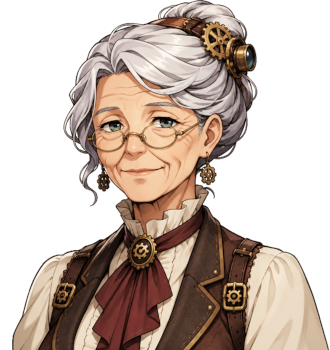
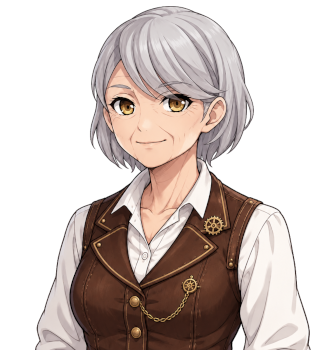
Thistle-pedia: Winnie's new face, Fellow Blunt's portrait, Will Thistle left open, Washer untied from the letters
Winnie's portrait is Mike's new picture, with alt text to match; it has
Bessie's bob and amber eyes, so "who has her face" stays. Fellow Blunt
has his own face now (Gen_People18 0), so his page and the People gallery
show it. The game has no grave for Will Thistle, so Mrs Thistle says only
that he is not in the house, which leaves room for a stone or a part
later. Washer's birth is the first morning that is spring, 21 March 2000,
no longer "the night after" the ninth letter (TIMELINE.md, Clevis, Washer).

Claude-Session: https://claude.ai/code/session_01SvrRkBS3dTjN1xNWrkUBQj

diff --git a/thistlepedia/People/Washer_Cotterill.md b/thistlepedia/People/Washer_Cotterill.md
@@ -33,7 +33,7 @@ So Washer was talked about, priced, provided for, argued over and twice named be
 
 The Forty-Eighth's company came down from the Tower, and after the ending Spare went down the Stair under Hithermost, and on the Stair, in the lamplight, a man in a red coat asked whether there was any post. Spare wrote his ninth letter home on his knee, and it said *Dear Mam. Is it spring yet? Spare.*, and it was the first one he had ever sent that was entirely true.
 
-After that he asked every morning. *Is it spring yet?* He was told not yet, and took it extremely well, and was told soon, and asked how soon, and looked at the sky as if it were late with something, and said that he would ask tomorrow, and did. Then one morning the light was a different colour, and the air smelt green, and something was singing that had not been singing the day before, and he was told yes. "Then I have to go home. Mam said ten in the spring. It is the spring." He had the bag on before anybody had finished saying it. It was, as everybody who was with him has told me, the first deadline in the whole of the Quest that anybody could actually have missed, and he did not intend to.
+He asked every morning, on waking. *Is it spring yet?* He was told not yet, and took it extremely well, and was told soon, and asked how soon, and looked at the sky as if it were late with something, and said that he would ask tomorrow, and did. Then one morning the light was a different colour, and the air smelt green, and something was singing that had not been singing the day before, and he was told yes. "Then I have to go home. Mam said ten in the spring. It is the spring." He had the bag on before anybody had finished saying it. It was, as everybody who was with him has told me, the first deadline in the whole of the Quest that anybody could actually have missed, and he did not intend to.
 
 He was home by the evening. Every Cotterill in Upper Clanging was indoors, and the street was empty, which nobody in the town could remember happening before, and every window in the house was lit. Bessie was at the Cotterills' door, not her own, and saw him, and opened it, and held it. "I have to go in now," said Spare to the company. "Come back in the morning. Not before. Mam said." He went in with the bag, and the door shut.
 

diff --git a/scripts/thistlepedia/AFTERWARDS.md b/scripts/thistlepedia/AFTERWARDS.md
@@ -539,9 +539,10 @@ would change it falls between New Year and mid-February**; Hosea's ages are
   never took another man's quest (so never near the Tower); the lady in the
   tower got herself out by the stairs. Out both times Hosea called.
 
-`TIMELINE.md` and this file disagree slightly about the ninth letter: the
-timeline has Washer born "the night after" it, while `q_spare.spa3` has
-mornings of asking in between. The wiki follows the game's events.
+Washer's birth is not pinned to any letter or event (Mike, 4 Nov 2026): it is
+the first morning that is spring, 21 March 2000, however many mornings of
+asking came before it. `TIMELINE.md` used to say "the night after" the ninth
+letter and now says the same as the wiki.
 
 **Batch B: Nether Sopping, the Gilded Turnip, Firstfield, Penultima, Restwell.**
 
@@ -692,8 +693,10 @@ mother.**
   clipboard), Commissioner since 1991; a letter to Zephyrine is drafted for
   autumn 2030.
 * **Mrs Thistle is Annie**, née Brook (6 June 1957), of the mill; married
-  **Will Thistle** in 1977, who is in the churchyard near Mabel and about
-  whom nothing else is said; **Bram was born in 1979**, in the room under
+  **Will Thistle** in 1977, who is "not in the house" and about whom nothing
+  else is said. **His fate is left open on purpose** (Mike, 4 Nov 2026): the
+  game has no grave for him, so the wiki must not put him in the churchyard
+  or anywhere else, and a later update may give him a stone or a part; **Bram was born in 1979**, in the room under
   the sword. The clean rectangle of wall is not painted over.
 * **Not written, on purpose**: Beatrice Grumnir (Hob's article says nobody in
   Thistlewick says more than that she was always right, "and nor shall I");

diff --git a/TIMELINE.md b/TIMELINE.md
@@ -185,7 +185,7 @@ when it does, in a round year.
 | 1996 | Mr Pilbeam rescues Rosamund from the eagle. Merribell leaves the Sisterhouse at twenty-two, because it has begun holding symposia (MER-1) | `fairholme`, `q_merribell` | F |
 | 1997 | Much Pottering twins with Upper Clanging - Mrs Throssell chose it off the map as the most different place she could find, and neither village has ever visited the other - and the twinning pairs one child of six from each as pen pals: Effie Gotobed and Spare Cotterill. They write ever since, untruthfully, and meet in 2000 (SPA-4) | `pottering`, `q_spare` (SPA-4) | F |
 | 1997 | the edition of The Turnip Grower's Almanac on Bram's bedside table | `curios_c1` (Map 2) | P |
-| 2000 | the spring, after the Prophecy, and only in Upper Clanging: the tenth Cotterill, **Washer**, born at six in the morning on the hooter, the night after Spare's ninth letter from the Stair says "Is it spring yet?" Mr Cotterill off nights for it, the first time in twenty-two years; Spare named it; Clevis's book paid out at twenty to one; Cotter home from Great Dunnage that Saturday (SPA-3) | `q_spare` (SPA-3) | F |
+| 2000 | the spring, after the Prophecy, and only in Upper Clanging: the tenth Cotterill, **Washer**, born at six in the morning on the hooter, on the first morning that is spring - after the ending, and not tied to any particular letter or event. Mr Cotterill off nights for it, the first time in twenty-two years; Spare named it; Clevis's book paid out at twenty to one; Cotter home from Great Dunnage that Saturday (SPA-3) | `q_spare` (SPA-3) | F |
 
 ## 5. Ages stated
 

diff --git a/thistlepedia/People/Mrs_Thistle.md b/thistlepedia/People/Mrs_Thistle.md
@@ -25,7 +25,7 @@ title: Mrs Thistle
 
 ## The mill
 
-She was born Annie Brook in 1957 at the mill below Thistlewick, and married Will Thistle, who farmed the Thistle ground, in 1977, and their son was born two springs later, in the house, in the room under the sword. Of Mr Thistle she would say only that he was a good man with turnips, and that he is in the churchyard, near his grandmother Mabel, who grew a turnip as big as a chair, and that that is enough to say about him in an encyclopedia, and that the rest is hers. I have respected that.
+She was born Annie Brook in 1957 at the mill below Thistlewick, and married Will Thistle, who farmed the Thistle ground, in 1977, and their son was born two springs later, in the house, in the room under the sword. Of Mr Thistle she would say only that he was a good man with turnips, and that he is not in the house, and that that is enough to say about him in an encyclopedia, and that the rest is hers. I asked in the village, where everybody had an answer and no two of them were the same, and I have respected hers rather than theirs.
 
 She has farmed the ground with her son since, and kept the house, and the chair that was a turnip, which she uses for the good visitors. I have sat on it.
 

diff --git a/thistlepedia/People/Clevis_Cotterill.md b/thistlepedia/People/Clevis_Cotterill.md
@@ -33,7 +33,7 @@ The reasoning was sound. Mrs Cotterill had always said that she had Washer in re
 
 ## Twenty to one
 
-Half the works put a farthing on Washer, because Da had said not Washer, and the works has known Mr Cotterill a long time, and has a feeling about the things he says very firmly. He took all of it, and laid it off against nobody, because there was nobody to lay it off against, and was, on the night of the ninth letter, holding a very great deal of the town's money against a single name.
+Half the works put a farthing on Washer, because Da had said not Washer, and the works has known Mr Cotterill a long time, and has a feeling about the things he says very firmly. He took all of it, and laid it off against nobody, because there was nobody to lay it off against, and was, by the time it was spring, holding a very great deal of the town's money against a single name.
 
 Spare got to it first. "He said call it Washer," said Mrs Cotterill, "and I was tired."
 

diff --git a/thistlepedia/People/Winnie_Marsden.md b/thistlepedia/People/Winnie_Marsden.md
@@ -8,7 +8,7 @@ title: Winnie Marsden
 
 <table class="infobox">
 <caption>Winnie Marsden</caption>
-<tr><td colspan="2" class="infobox-image"><img src="../images/portraits/Winnie_Marsden.png" alt="Winnie Marsden, white-haired, in spectacles and a waistcoat with brass cogs on it" width="200"><span class="infobox-caption">Class of 'Nineteen</span></td></tr>
+<tr><td colspan="2" class="infobox-image"><img src="../images/portraits/Winnie_Marsden.png" alt="Winnie Marsden, silver-haired, in a brown waistcoat with a brass cog and a watch chain" width="200"><span class="infobox-caption">Class of 'Nineteen</span></td></tr>
 <tr><th>Known as</th><td>Winnie; Mrs Marsden; "Gran", by Bessie, and since the summer of 2000 by Cotter, who was told to</td></tr>
 <tr><th>Born</th><td>Winifred Platt, 4 October 1919, <a href="../Places/Upper_Clanging">Upper Clanging</a>, in the Cold Winter's autumn</td></tr>
 <tr><th>Sex</th><td>Female</td></tr>

diff --git a/thistlepedia/People/Index.md b/thistlepedia/People/Index.md
@@ -218,9 +218,8 @@ At <a href="../Places/Great_Dunnage">Great Dunnage</a>.
 <figure><a href="Mr_Tweddle"><img src="../images/portraits/Mr_Tweddle.png" alt="Mr Tweddle"></a><figcaption><a href="Mr_Tweddle">Mr Tweddle</a></figcaption></figure>
 <figure><a href="Septimus_Dray"><img src="../images/portraits/Septimus_Dray.png" alt="Septimus Dray"></a><figcaption><a href="Septimus_Dray">Mr Dray</a></figcaption></figure>
 <figure><a href="Lettice_Moon"><img src="../images/portraits/Lettice_Moon.png" alt="Lettice Moon"></a><figcaption><a href="Lettice_Moon">Miss Moon</a></figcaption></figure>
+<figure><a href="Fellow_Blunt"><img src="../images/portraits/Fellow_Blunt.png" alt="Fellow Blunt"></a><figcaption><a href="Fellow_Blunt">Fellow Blunt</a></figcaption></figure>
 </div>
-
-And <a href="Fellow_Blunt">Fellow Blunt</a>, who checks the stone and has not yet sat for a portrait.
 
 ### The Sable Hart
 

diff --git a/thistlepedia/People/Fellow_Blunt.md b/thistlepedia/People/Fellow_Blunt.md
@@ -8,6 +8,7 @@ title: Fellow Blunt
 
 <table class="infobox">
 <caption>Fellow Blunt</caption>
+<tr><td colspan="2" class="infobox-image"><img src="../images/portraits/Fellow_Blunt.png" alt="Fellow Blunt, grey and cropped, with a waxed moustache, in a leather jerkin" width="200"><span class="infobox-caption">Quarterly</span></td></tr>
 <tr><th>Known as</th><td>Fellow Blunt; "(FELLOW BLUNT, QUARTERLY.)", on a plate</td></tr>
 <tr><th>Born</th><td>2 October 1937, <a href="../Places/Great_Dunnage">Great Dunnage</a>. His first name is not in the minutes, and he has not given it to me</td></tr>
 <tr><th>Sex</th><td>Male</td></tr>
